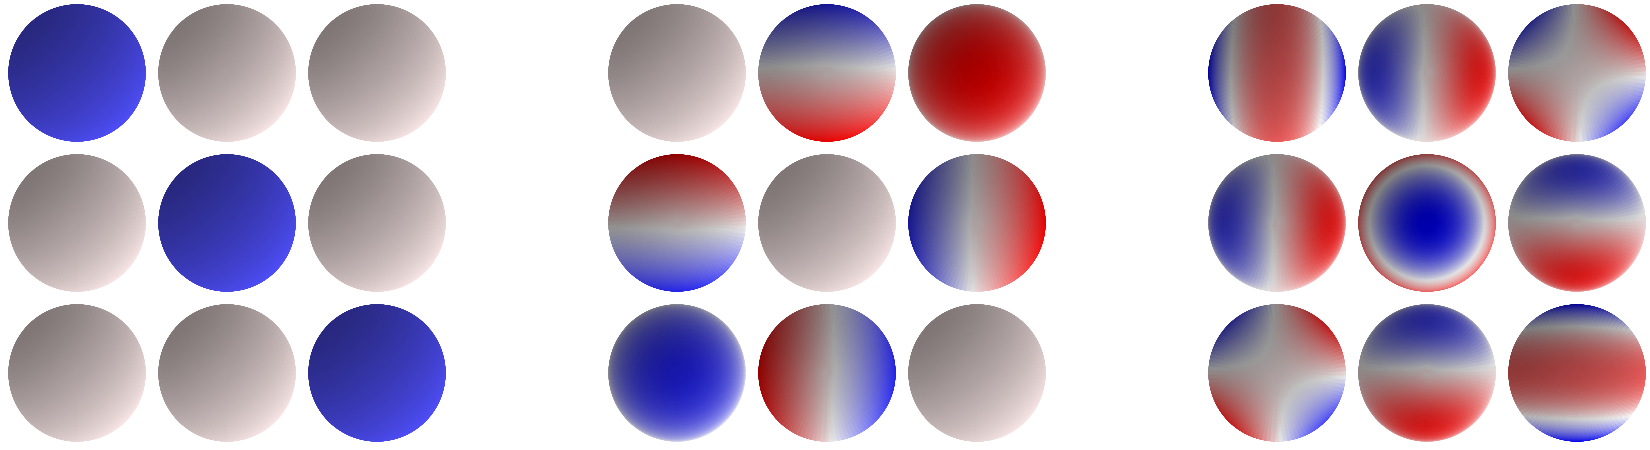
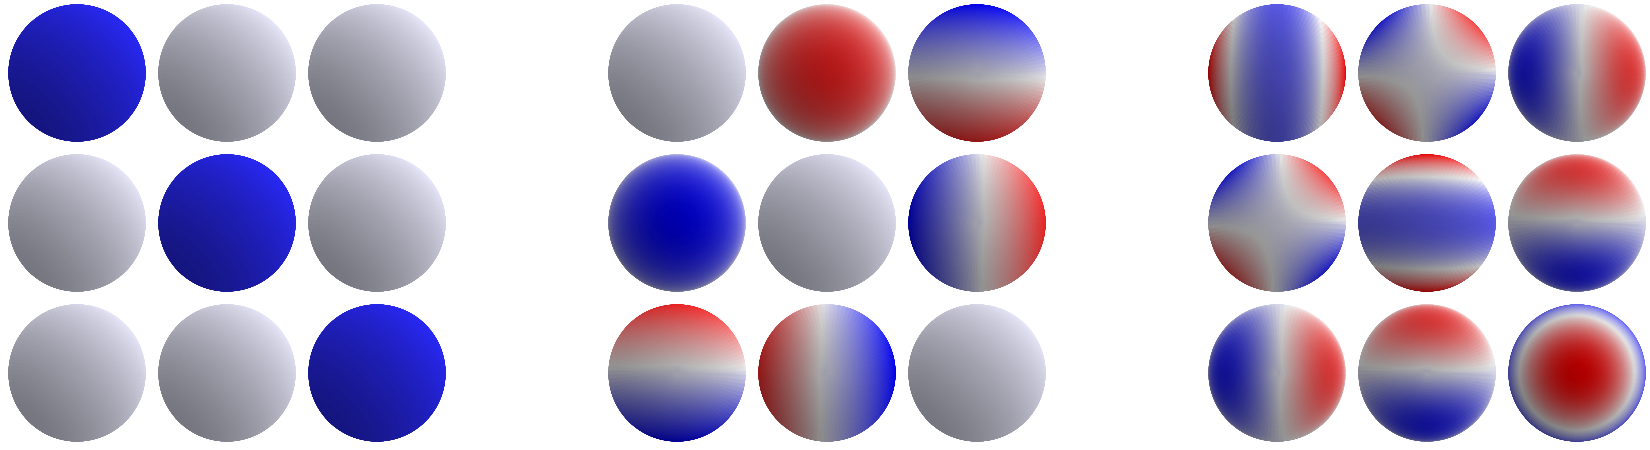
field[z, y, x] = [vx, vy, vz]

diff --git a/se3_cnn/basis_kernels.py b/se3_cnn/basis_kernels.py
@@ -96,25 +96,25 @@ def _sample_sh_cube(size, J):
     :param size: side length of the kernel
     :param J: order of the spherical harmonics
     '''
-    # sample spherical harmonics on cube, ignoring radial part and aliasing
-
     rng = np.linspace(start=-((size - 1) / 2), stop=(size - 1) / 2, num=size, endpoint=True)
-    z, y, x = np.meshgrid(rng, rng, rng)
 
     Y_J = np.zeros((2 * J + 1, size, size, size))
     for idx_m in range(2 * J + 1):
         m = idx_m - J
-        for idx_x, x in enumerate(rng):
+        for idx_z, z in enumerate(rng):
             for idx_y, y in enumerate(rng):
-                for idx_z, z in enumerate(rng):
+                for idx_x, x in enumerate(rng):
                     if x == y == z == 0:  # angles at origin are nan, special treatment
                         if J == 0:  # Y^0 is angularly independent, choose any angle
-                            Y_J[idx_m, idx_x, idx_y, idx_z] = sh(0, 0, 123, 321)
+                            Y_J[idx_m, idx_z, idx_y, idx_x] = sh(0, 0, 123, 321)
                         else:  # insert zeros for Y^J with J!=0
-                            Y_J[idx_m, idx_x, idx_y, idx_z] = 0
+                            Y_J[idx_m, idx_z, idx_y, idx_x] = 0
                     else:  # not at the origin, sample spherical harmonic
-                        alpha, beta = x_to_alpha_beta(np.array([x, y, z]))
-                        Y_J[idx_m, idx_x, idx_y, idx_z] = sh(J, m, beta, alpha)
+                        # To end up with the convention : vector_field[z, y, x] = np.array([v_x, v_y, v_z])
+                        # Instead of x_to_alpha_beta(np.array([x, y, z]))
+                        # We need to do this (trust me)
+                        alpha, beta = x_to_alpha_beta(np.array([-z, -x, y]))
+                        Y_J[idx_m, idx_z, idx_y, idx_x] = sh(J, m, beta, alpha)
 
     return Y_J
 
@@ -128,10 +128,8 @@ def _sample_cube(size, order_in, order_out):
     :param order_out: order of the output representation
     :return: sampled equivariant kernel basis of shape (N_basis, 2*order_out+1, 2*order_in+1, size, size, size)
     '''
-    # sample spherical harmonics on cube, ignoring radial part and aliasing
 
     rng = np.linspace(start=-((size - 1) / 2), stop=(size - 1) / 2, num=size, endpoint=True)
-    z, y, x = np.meshgrid(rng, rng, rng)
 
     order_irreps = list(range(abs(order_in - order_out), order_in + order_out + 1))
     sh_cubes = []
@@ -144,6 +142,7 @@ def _sample_cube(size, order_in, order_out):
         K_J = K_J.reshape(2 * order_out + 1, 2 * order_in + 1, size, size, size)
         sh_cubes.append(K_J)
 
+    z, y, x = np.meshgrid(rng, rng, rng)
     r_field = np.sqrt(x ** 2 + y ** 2 + z ** 2)
     return sh_cubes, r_field, order_irreps
 

diff --git a/examples/plots/kernels.py b/examples/plots/kernels.py
@@ -6,6 +6,7 @@ from mpl_toolkits.mplot3d import Axes3D  # pylint: disable=W
 from lie_learn.representations.SO3.spherical_harmonics import sh  # real valued by default
 from se3_cnn.basis_kernels import _basis_transformation_Q_J
 from se3_cnn.util.cache_file import cached_dirpklgz
+from se3_cnn.SO3 import rot, x_to_alpha_beta
 
 
 def beta_alpha(n):
@@ -18,19 +19,21 @@ def beta_alpha(n):
 @cached_dirpklgz("cache/sh_sphere")
 def _sample_Y(n, J):
     beta, alpha = beta_alpha(n)
-    
+
     Y_J = np.zeros((2 * J + 1, len(beta.flatten())))
     for idx_m in range(2 * J + 1):
         m = idx_m - J
         for idx, (b, a) in enumerate(zip(beta.flatten(), alpha.flatten())):
-            Y_J[idx_m, idx] = sh(J, m, b, a)
-            
+            [x, y, z] = (rot(a, b, 0) @ np.array([[0], [0], [1]])).reshape((-1,))
+            aa, bb = x_to_alpha_beta(np.array([-z, -x, y]))
+            Y_J[idx_m, idx] = sh(J, m, bb, aa)
+
     return Y_J
 
 
 def _sample_sh_sphere(n, order_in, order_out):
     order_irreps = range(abs(order_in - order_out), order_in + order_out + 1)
-    
+
     sh_spheres = []
     for J in order_irreps:
         Y_J = _sample_Y(n, J)
@@ -61,7 +64,7 @@ def plot_sphere(beta, alpha, f):
     ax = plt.gca()
     ax.plot_surface(x, y, z, rstride=1, cstride=1, facecolors=fc)  # cm.gray(f))
     # Turn off the axis planes
-    ax.view_init(azim=0, elev=90)
+    ax.view_init(azim=-90, elev=90)
     ax.set_axis_off()
     a = 0.6
     ax.set_xlim3d(-a, a)
@@ -73,7 +76,9 @@ def main():
     scale = 1.5
     n = 50
 
-    f = _sample_sh_sphere(n, 1, 1)
+    order_in, order_out = 1, 1
+
+    f = _sample_sh_sphere(n, order_in, order_out)
     f = (f - np.min(f)) / (np.max(f) - np.min(f))
 
     beta, alpha = beta_alpha(n)
@@ -100,7 +105,7 @@ def main():
                 fig.add_axes(rect, projection='3d', aspect=1)
                 plot_sphere(beta, alpha, f[base, i, j])
 
-    plt.savefig("kernels.png")
+    plt.savefig("kernels{}{}.png".format(order_in, order_out))
 
 
 main()

diff --git a/se3_cnn/SO3.py b/se3_cnn/SO3.py
@@ -12,24 +12,24 @@ def rot_z(gamma):
     Rotation around Z axis
     '''
     return np.array([[np.cos(gamma), -np.sin(gamma), 0],
-                     [np.sin(gamma), np.cos(gamma), 0],
-                     [0, 0, 1]])
+                    [np.sin(gamma), np.cos(gamma), 0],
+                    [0, 0, 1]])
 
 
 def rot_y(beta):
     '''
     Rotation around Y axis
     '''
-    return np.array([[np.cos(beta), 0, -np.sin(beta)],
-                     [0, 1, 0],
-                     [np.sin(beta), 0, np.cos(beta)]])
+    return np.array([[np.cos(beta), 0, np.sin(beta)],
+                    [0, 1, 0],
+                    [-np.sin(beta), 0, np.cos(beta)]])
 
 
 def rot(alpha, beta, gamma):
     '''
     ZYZ Eurler angles rotation
     '''
-    return rot_z(alpha).dot(rot_y(beta)).dot(rot_z(gamma))
+    return rot_z(alpha) @ rot_y(beta) @ rot_z(gamma)
 
 
 def x_to_alpha_beta(x):
@@ -40,3 +40,8 @@ def x_to_alpha_beta(x):
     beta = np.arccos(x[2])
     alpha = np.arctan2(x[1], x[0])
     return (alpha, beta)
+
+# These functions satisfies that
+# rot(*x_to_alpha_beta([x, y, z]), 0) @ np.array([[0], [0], [1]])
+# is proportional to
+# [x, y, z]
